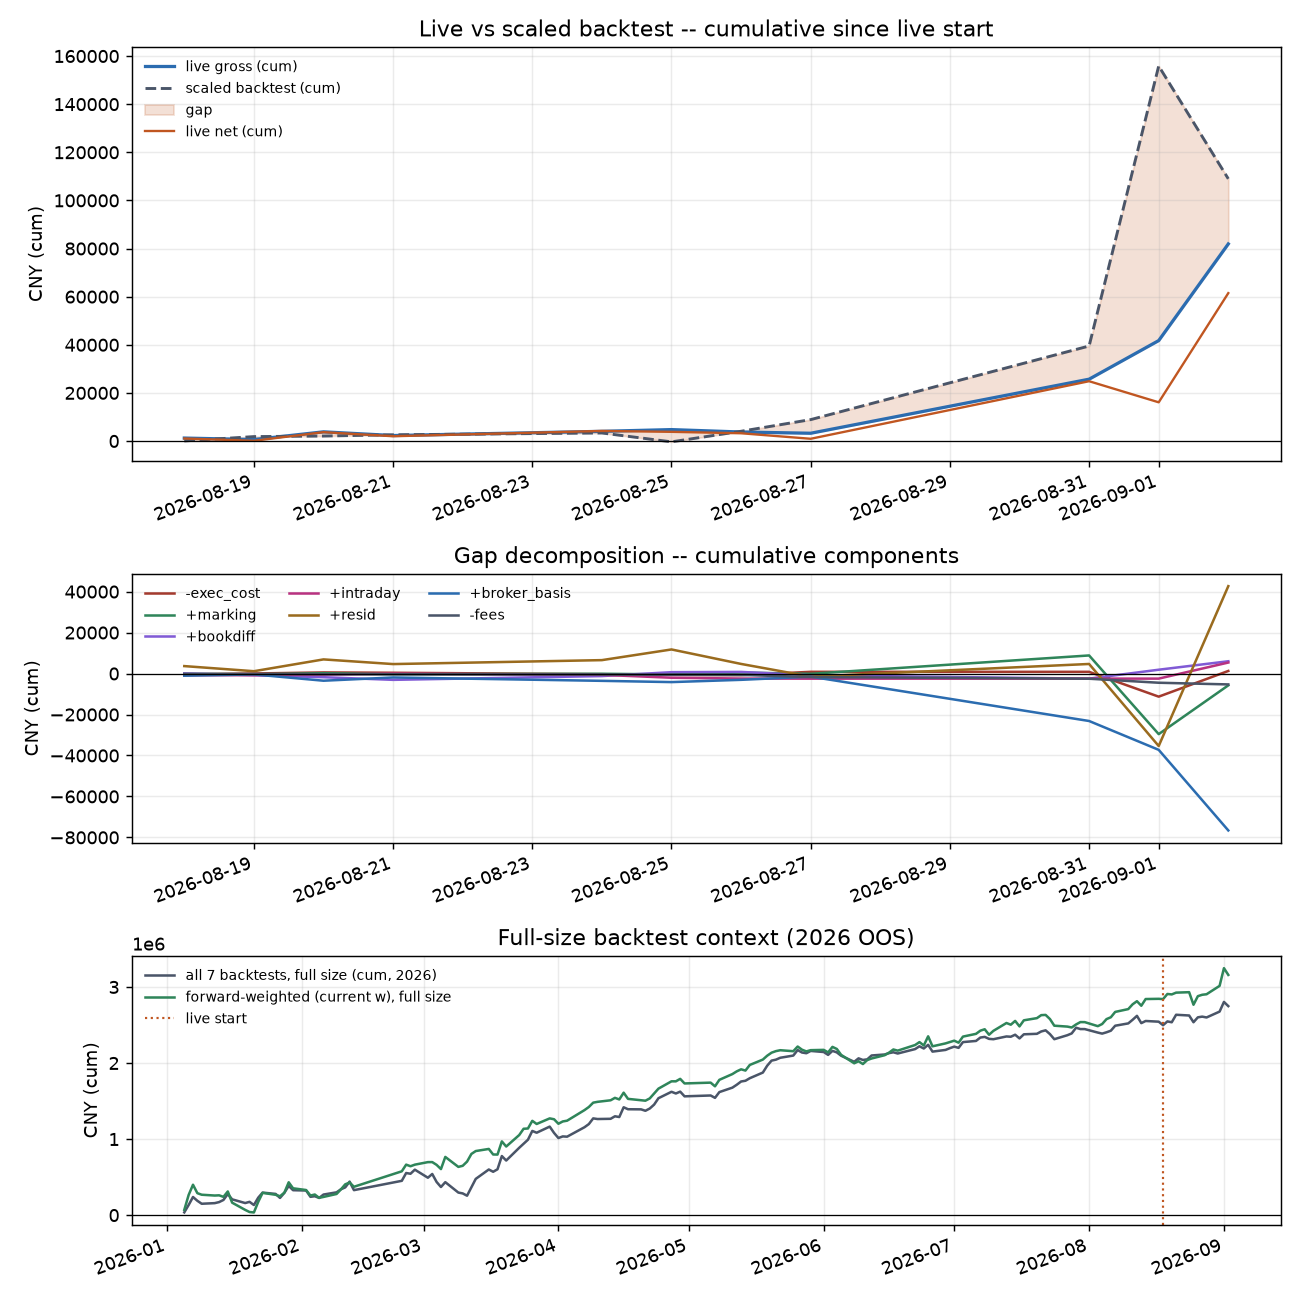
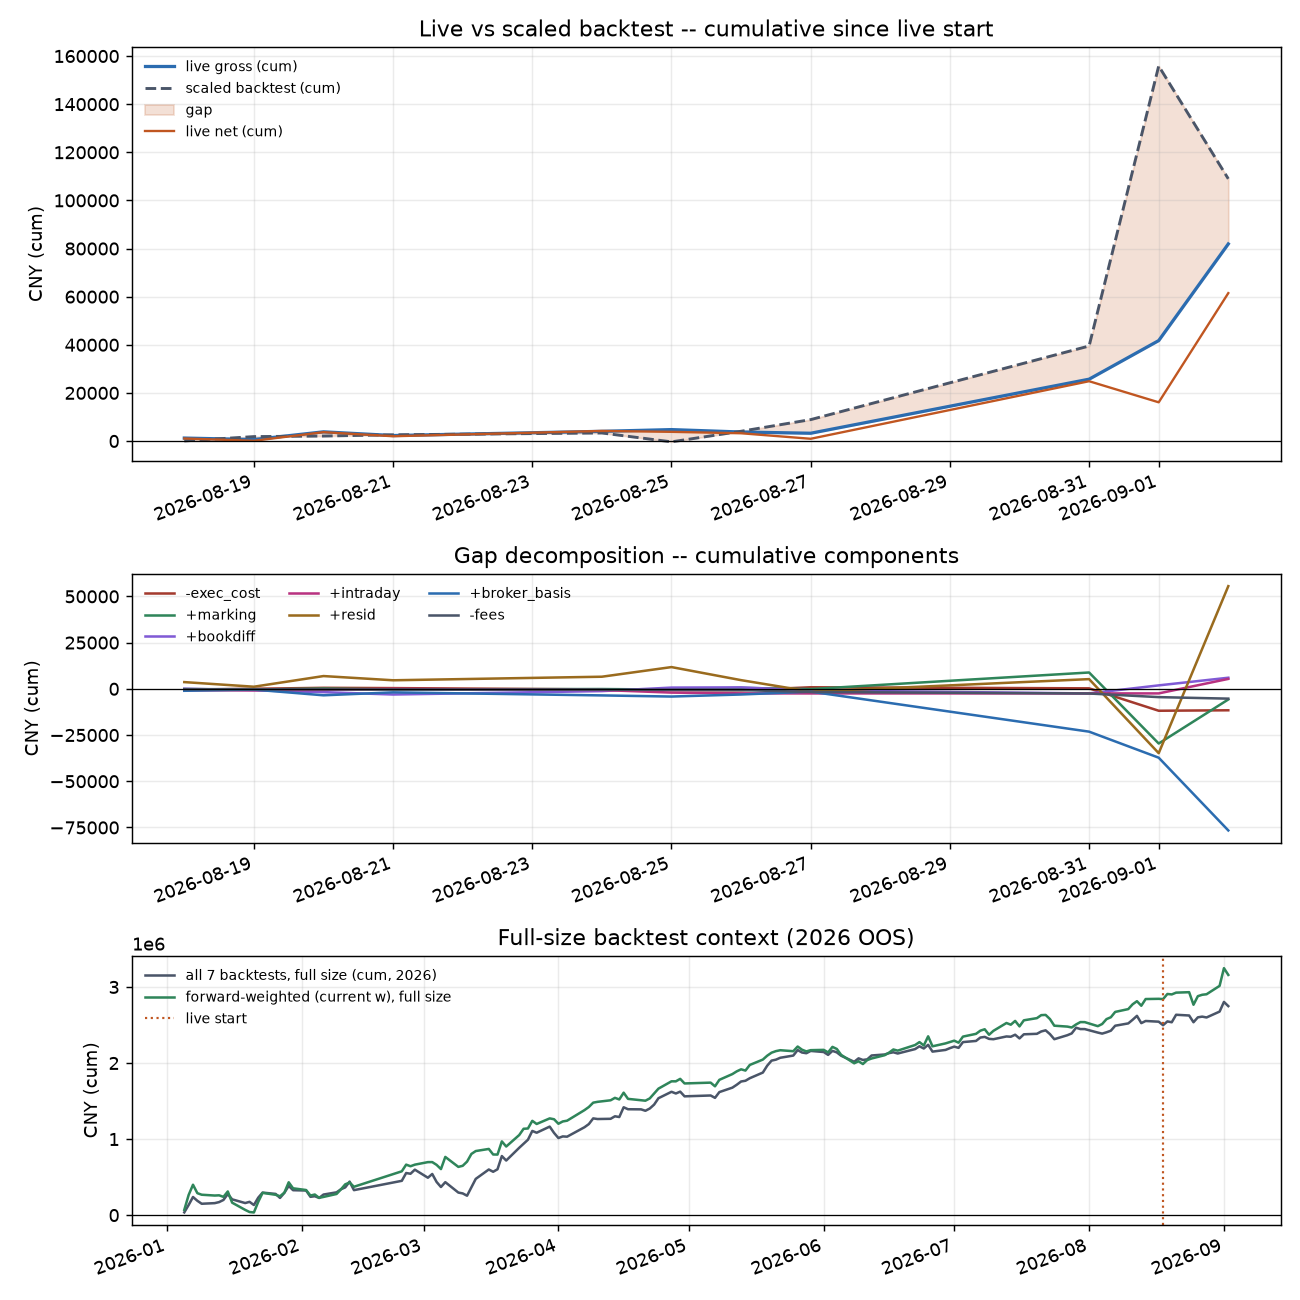
tracker: 2026-09-03 report

Changed region(s): [[0.1231, 0.4923, 0.9538, 0.6154], [0.0308, 0.4308, 0.0923, 0.6462]]

diff --git a/reports/daily/2026-09-03.md b/reports/daily/2026-09-03.md
@@ -5,29 +5,22 @@
 - WEIGHTS CHANGE on 2026-09-01: ks_ext: 0.0->0.25.
 - WEIGHTS CHANGE on 2026-09-02: stat_arb: 1.0->0.0.
 - WEIGHTS CHANGE on 2026-09-03: stat_arb: 0.0->1.0.
-- BT REVISED vs PINS: fund_v3 current history differs from pinned as-shipped values on 1 new live-window day(s) (max |diff| 22925 CNY, first 2026-08-31); the bridge keeps the pins.
-- BT REVISED vs PINS: stat_arb current history differs from pinned as-shipped values on 10 new live-window day(s) (max |diff| 7372 CNY, first 2026-08-18); the bridge keeps the pins.
-- BT REVISED vs PINS: agri_event current history differs from pinned as-shipped values on 3 new live-window day(s) (max |diff| 5680 CNY, first 2026-08-27); the bridge keeps the pins.
 - MISSING LIVE DAY 2026-08-28: trading day with a backtest row but no daily_pnl/state file; excluded from the bridge, expected pnl held in the missing-day bucket.
 - SCALE 2026-08-28: no usable run record; previous scale carried forward.
 - SCALE CHANGE on 2026-08-27: now 0.2.
 - SCALE CHANGE on 2026-09-01: now 0.5.
-- BACKTEST REVISED: fund_v3 -- 143 mature row(s) changed since last run (net -857 CNY, largest 2026-01-22 +55470 -> +54869; first 2026-01-06, last 2026-08-17). Regeneration upstream; baseline re-set.
-- BACKTEST REVISED: chem_fund -- 8 mature row(s) changed since last run (net -650 CNY, largest 2026-06-04 +7080 -> +4130; first 2026-05-29, last 2026-06-09). Regeneration upstream; baseline re-set.
-- BACKTEST REVISED: agri_event -- 10 mature row(s) changed since last run (net +5450 CNY, largest 2026-02-24 +47280 -> +50705; first 2026-02-09, last 2026-08-10). Regeneration upstream; baseline re-set.
-- BACKTEST REVISED: stat_arb -- 150 mature row(s) changed since last run (net +50861 CNY, largest 2026-06-29 +17123 -> -13441; first 2026-01-05, last 2026-08-17). Regeneration upstream; baseline re-set.
-- SLIPPAGE 2026-09-03: 9 unbenchmarked leg(s), +65 CNY exec cost without a shipped decision price.
-- RESIDUAL 2026-09-01: -40058 CNY vs trailing median |resid| 5210, offset by neither neighbour (2026-08-31 +6173, 2026-09-02 +78056) -- attribution quality changed. (A break-out that a neighbouring day mirrors is the backtest/live day-window straddle and is not alerted.)
+- SLIPPAGE 2026-09-03: 4 unbenchmarked leg(s), +30 CNY exec cost without a shipped decision price.
+- RESIDUAL 2026-09-01: -40058 CNY vs trailing median |resid| 5210, offset by neither neighbour (2026-08-31 +6748, 2026-09-02 +90351) -- attribution quality changed. (A break-out that a neighbouring day mirrors is the backtest/live day-window straddle and is not alerted.)
 
 ## Latest reconciled day (2026-09-02, forward regime)
 live gross +40,175 | expected (0.5 x bt -93,760) = -46,880 | gap +87,055
-  exec_cost -12,545 (slip -12,550, unbench +5) | marking +23,820 | bookdiff +4,132 (carry +6,410, new -2,278) | intraday +7,852 | residual +78,056 (window-straddled: judge with the next day's) | broker basis -39,351
+  exec_cost -250 (slip -270, unbench +20) | marking +23,820 | bookdiff +4,132 (carry +6,410, new -2,278) | intraday +7,852 | residual +90,351 (window-straddled: judge with the next day's) | broker basis -39,351
   fees +824 | broker residual +6,034 -> live net +45,385
 
 ## Cumulative bridge (live since 2026-08-18, 11 reconciled days)
 | expected | -exec | +marking | +bookdiff | +intraday | +resid | +broker basis | = live gross | -fees | +broker_resid | = live net |
 |---|---|---|---|---|---|---|---|---|---|---|
-| +108,975 | +1,262 | -5,760 | +5,998 | +5,372 | +42,670 | -76,603 | +81,915 | -5,312 | -15,130 | +61,473 |
+| +108,975 | -11,608 | -5,760 | +5,998 | +5,372 | +55,540 | -76,603 | +81,915 | -5,312 | -15,130 | +61,473 |
 missing live days excluded: 2026-08-28 (expected +2,838 held in bucket)
 
 ## Stats (daily CNY pnl)
@@ -58,5 +51,5 @@ forward-day attribution is pro-rated by weighted full-size lots; legacy days rem
 scale: 0.5 (since 2026-09-01)
 regime: forward (merged weighted book) since 2026-08-31; 3 forward day(s), 8 legacy day(s)
 merge weights (2026-09-03): ks_branch 0.8, fund_v3 2, china_pairs 1.5, ks_ext 0.25, chem_fund 1.5, agri_event 1, stat_arb 1
-as-shipped pins: 12 live day(s) pinned; current series diverges from pins on fund_v3: 10 day(s), max 22,925 CNY, 1 NEW, ks_branch: 9 day(s), max 35,915 CNY, stat_arb: 10 day(s), max 7,372 CNY, 10 NEW, ks_ext: 2 day(s), max 950 CNY, agri_event: 3 day(s), max 5,680 CNY, 3 NEW; standing counts -- a divergence is announced as an alert once, the first run it appears, and kept here afterwards
+as-shipped pins: 12 live day(s) pinned; current series diverges from pins on fund_v3: 10 day(s), max 22,925 CNY, ks_branch: 9 day(s), max 35,915 CNY, stat_arb: 10 day(s), max 7,372 CNY, ks_ext: 2 day(s), max 950 CNY, agri_event: 3 day(s), max 5,680 CNY; standing counts -- a divergence is announced as an alert once, the first run it appears, and kept here afterwards
 inbox ks summary mtime: 2026-09-03 05:52 UTC

diff --git a/reports/latest.md b/reports/latest.md
@@ -5,29 +5,22 @@
 - WEIGHTS CHANGE on 2026-09-01: ks_ext: 0.0->0.25.
 - WEIGHTS CHANGE on 2026-09-02: stat_arb: 1.0->0.0.
 - WEIGHTS CHANGE on 2026-09-03: stat_arb: 0.0->1.0.
-- BT REVISED vs PINS: fund_v3 current history differs from pinned as-shipped values on 1 new live-window day(s) (max |diff| 22925 CNY, first 2026-08-31); the bridge keeps the pins.
-- BT REVISED vs PINS: stat_arb current history differs from pinned as-shipped values on 10 new live-window day(s) (max |diff| 7372 CNY, first 2026-08-18); the bridge keeps the pins.
-- BT REVISED vs PINS: agri_event current history differs from pinned as-shipped values on 3 new live-window day(s) (max |diff| 5680 CNY, first 2026-08-27); the bridge keeps the pins.
 - MISSING LIVE DAY 2026-08-28: trading day with a backtest row but no daily_pnl/state file; excluded from the bridge, expected pnl held in the missing-day bucket.
 - SCALE 2026-08-28: no usable run record; previous scale carried forward.
 - SCALE CHANGE on 2026-08-27: now 0.2.
 - SCALE CHANGE on 2026-09-01: now 0.5.
-- BACKTEST REVISED: fund_v3 -- 143 mature row(s) changed since last run (net -857 CNY, largest 2026-01-22 +55470 -> +54869; first 2026-01-06, last 2026-08-17). Regeneration upstream; baseline re-set.
-- BACKTEST REVISED: chem_fund -- 8 mature row(s) changed since last run (net -650 CNY, largest 2026-06-04 +7080 -> +4130; first 2026-05-29, last 2026-06-09). Regeneration upstream; baseline re-set.
-- BACKTEST REVISED: agri_event -- 10 mature row(s) changed since last run (net +5450 CNY, largest 2026-02-24 +47280 -> +50705; first 2026-02-09, last 2026-08-10). Regeneration upstream; baseline re-set.
-- BACKTEST REVISED: stat_arb -- 150 mature row(s) changed since last run (net +50861 CNY, largest 2026-06-29 +17123 -> -13441; first 2026-01-05, last 2026-08-17). Regeneration upstream; baseline re-set.
-- SLIPPAGE 2026-09-03: 9 unbenchmarked leg(s), +65 CNY exec cost without a shipped decision price.
-- RESIDUAL 2026-09-01: -40058 CNY vs trailing median |resid| 5210, offset by neither neighbour (2026-08-31 +6173, 2026-09-02 +78056) -- attribution quality changed. (A break-out that a neighbouring day mirrors is the backtest/live day-window straddle and is not alerted.)
+- SLIPPAGE 2026-09-03: 4 unbenchmarked leg(s), +30 CNY exec cost without a shipped decision price.
+- RESIDUAL 2026-09-01: -40058 CNY vs trailing median |resid| 5210, offset by neither neighbour (2026-08-31 +6748, 2026-09-02 +90351) -- attribution quality changed. (A break-out that a neighbouring day mirrors is the backtest/live day-window straddle and is not alerted.)
 
 ## Latest reconciled day (2026-09-02, forward regime)
 live gross +40,175 | expected (0.5 x bt -93,760) = -46,880 | gap +87,055
-  exec_cost -12,545 (slip -12,550, unbench +5) | marking +23,820 | bookdiff +4,132 (carry +6,410, new -2,278) | intraday +7,852 | residual +78,056 (window-straddled: judge with the next day's) | broker basis -39,351
+  exec_cost -250 (slip -270, unbench +20) | marking +23,820 | bookdiff +4,132 (carry +6,410, new -2,278) | intraday +7,852 | residual +90,351 (window-straddled: judge with the next day's) | broker basis -39,351
   fees +824 | broker residual +6,034 -> live net +45,385
 
 ## Cumulative bridge (live since 2026-08-18, 11 reconciled days)
 | expected | -exec | +marking | +bookdiff | +intraday | +resid | +broker basis | = live gross | -fees | +broker_resid | = live net |
 |---|---|---|---|---|---|---|---|---|---|---|
-| +108,975 | +1,262 | -5,760 | +5,998 | +5,372 | +42,670 | -76,603 | +81,915 | -5,312 | -15,130 | +61,473 |
+| +108,975 | -11,608 | -5,760 | +5,998 | +5,372 | +55,540 | -76,603 | +81,915 | -5,312 | -15,130 | +61,473 |
 missing live days excluded: 2026-08-28 (expected +2,838 held in bucket)
 
 ## Stats (daily CNY pnl)
@@ -58,5 +51,5 @@ forward-day attribution is pro-rated by weighted full-size lots; legacy days rem
 scale: 0.5 (since 2026-09-01)
 regime: forward (merged weighted book) since 2026-08-31; 3 forward day(s), 8 legacy day(s)
 merge weights (2026-09-03): ks_branch 0.8, fund_v3 2, china_pairs 1.5, ks_ext 0.25, chem_fund 1.5, agri_event 1, stat_arb 1
-as-shipped pins: 12 live day(s) pinned; current series diverges from pins on fund_v3: 10 day(s), max 22,925 CNY, 1 NEW, ks_branch: 9 day(s), max 35,915 CNY, stat_arb: 10 day(s), max 7,372 CNY, 10 NEW, ks_ext: 2 day(s), max 950 CNY, agri_event: 3 day(s), max 5,680 CNY, 3 NEW; standing counts -- a divergence is announced as an alert once, the first run it appears, and kept here afterwards
+as-shipped pins: 12 live day(s) pinned; current series diverges from pins on fund_v3: 10 day(s), max 22,925 CNY, ks_branch: 9 day(s), max 35,915 CNY, stat_arb: 10 day(s), max 7,372 CNY, ks_ext: 2 day(s), max 950 CNY, agri_event: 3 day(s), max 5,680 CNY; standing counts -- a divergence is announced as an alert once, the first run it appears, and kept here afterwards
 inbox ks summary mtime: 2026-09-03 05:52 UTC
